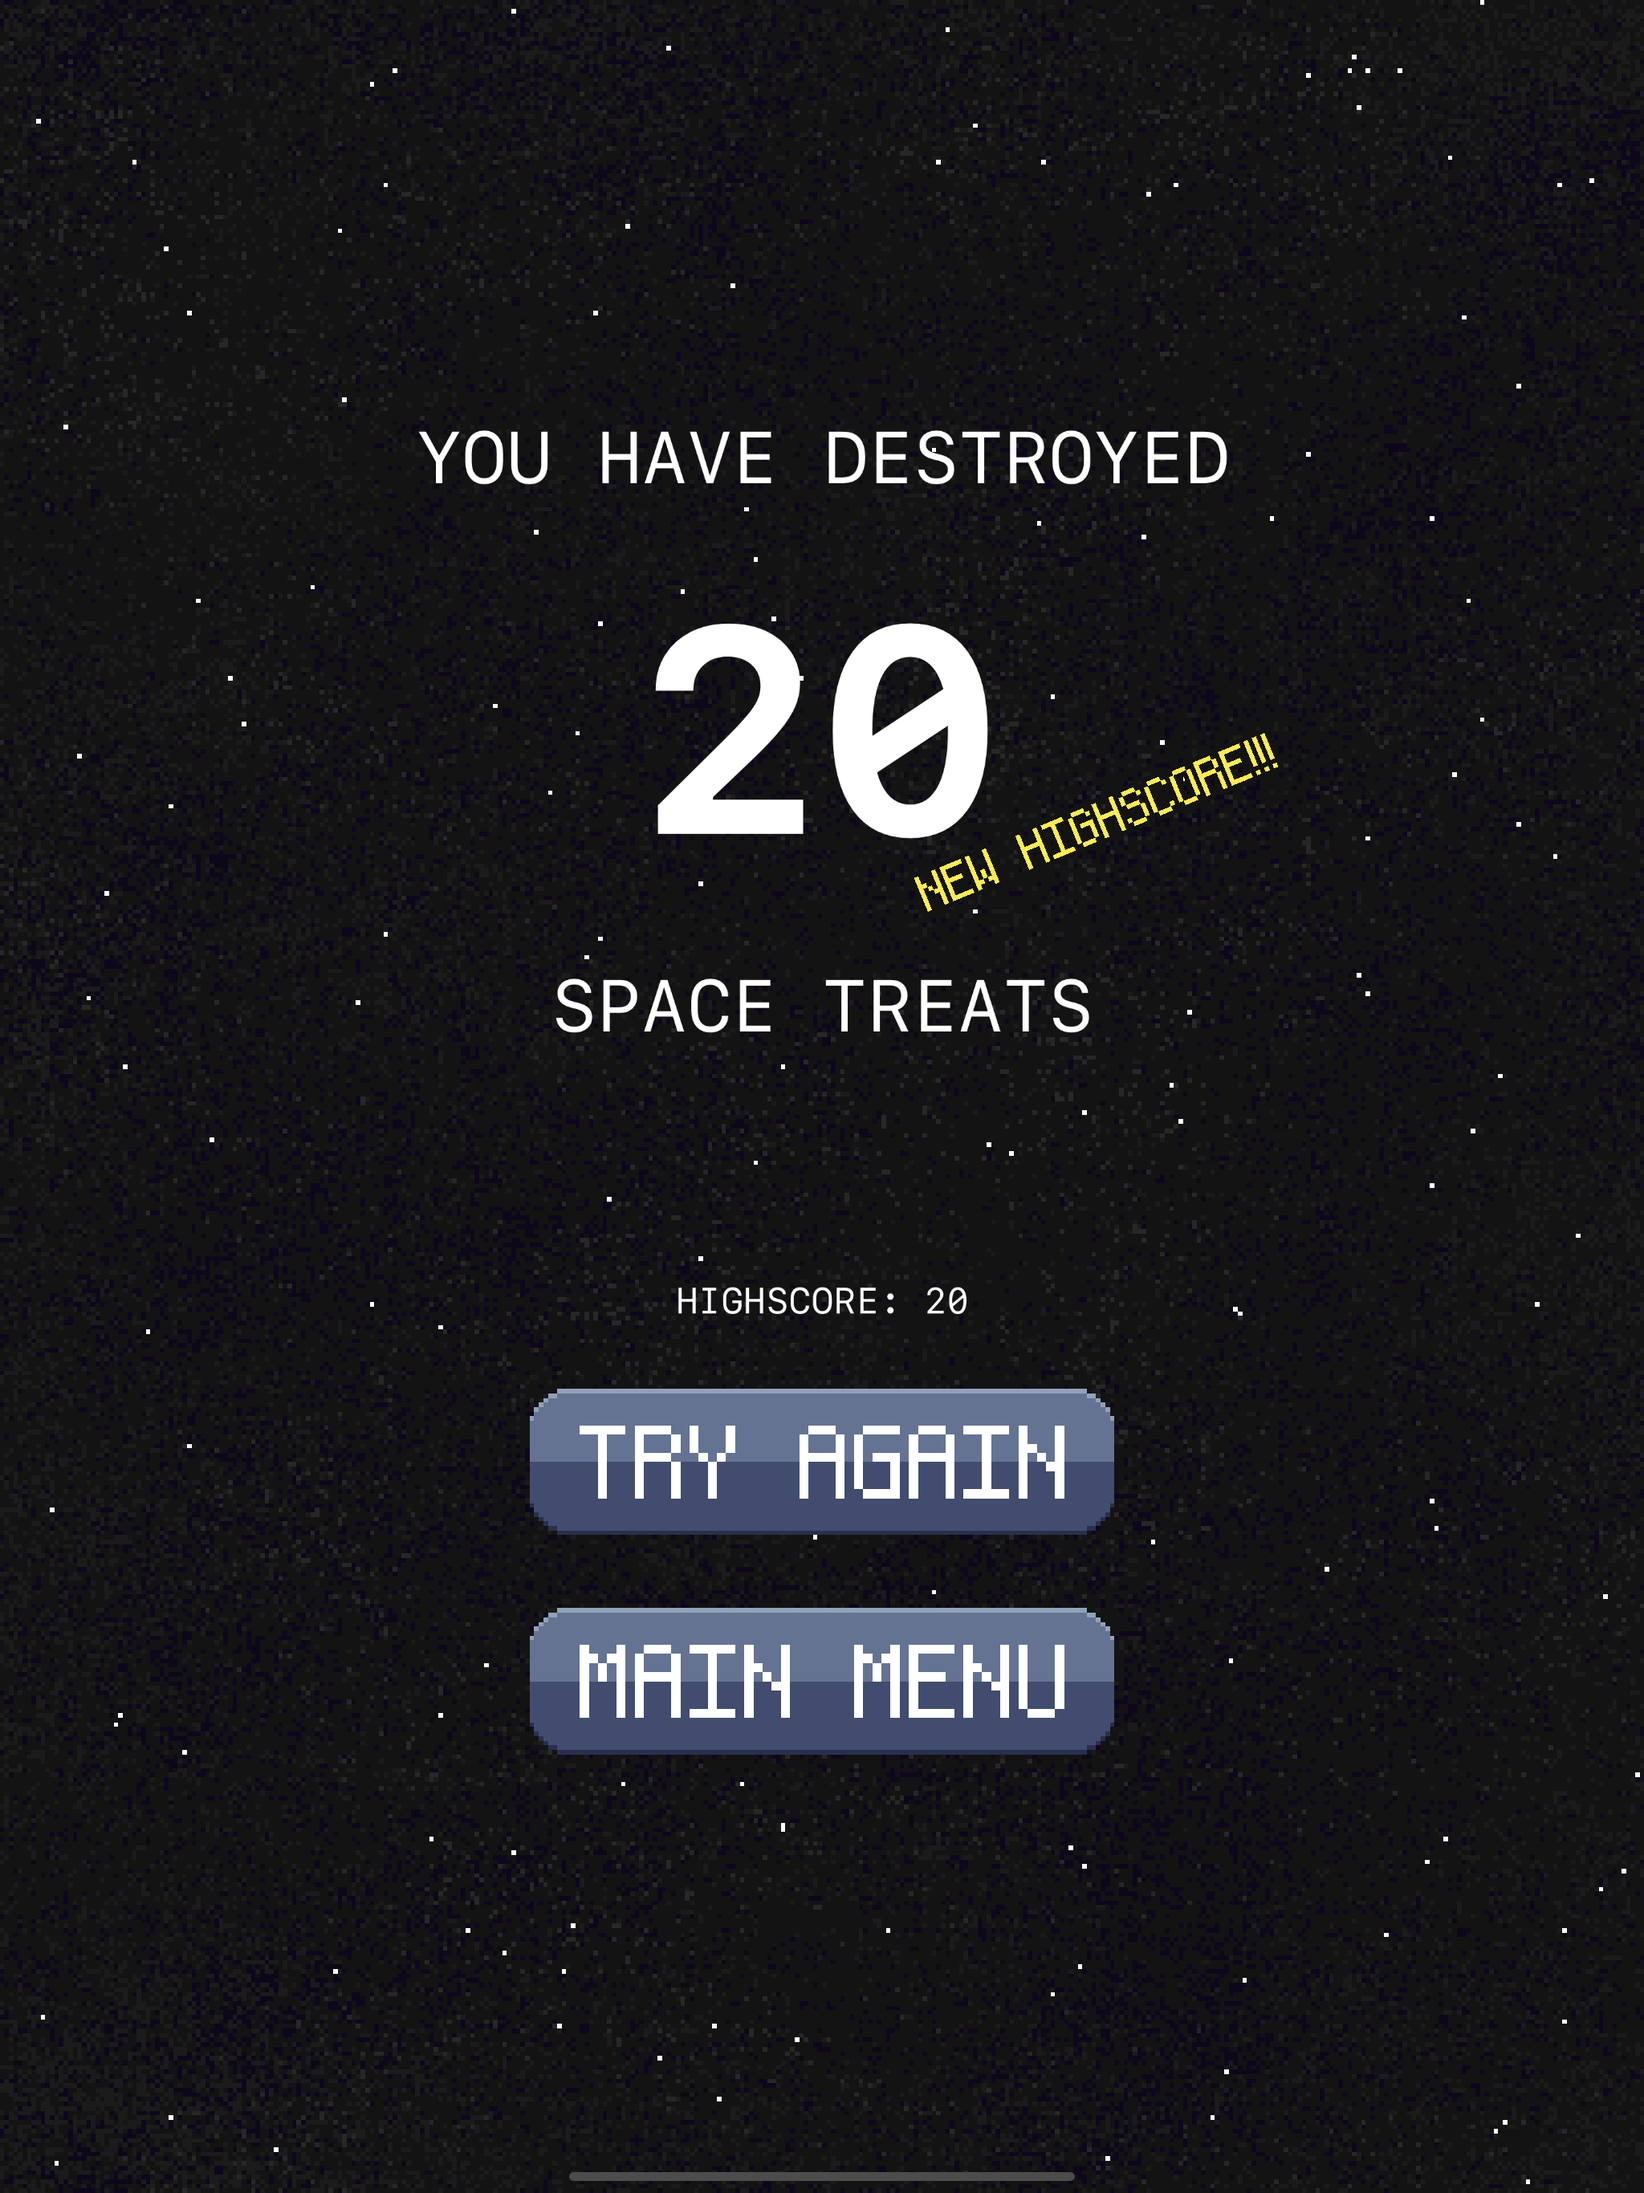
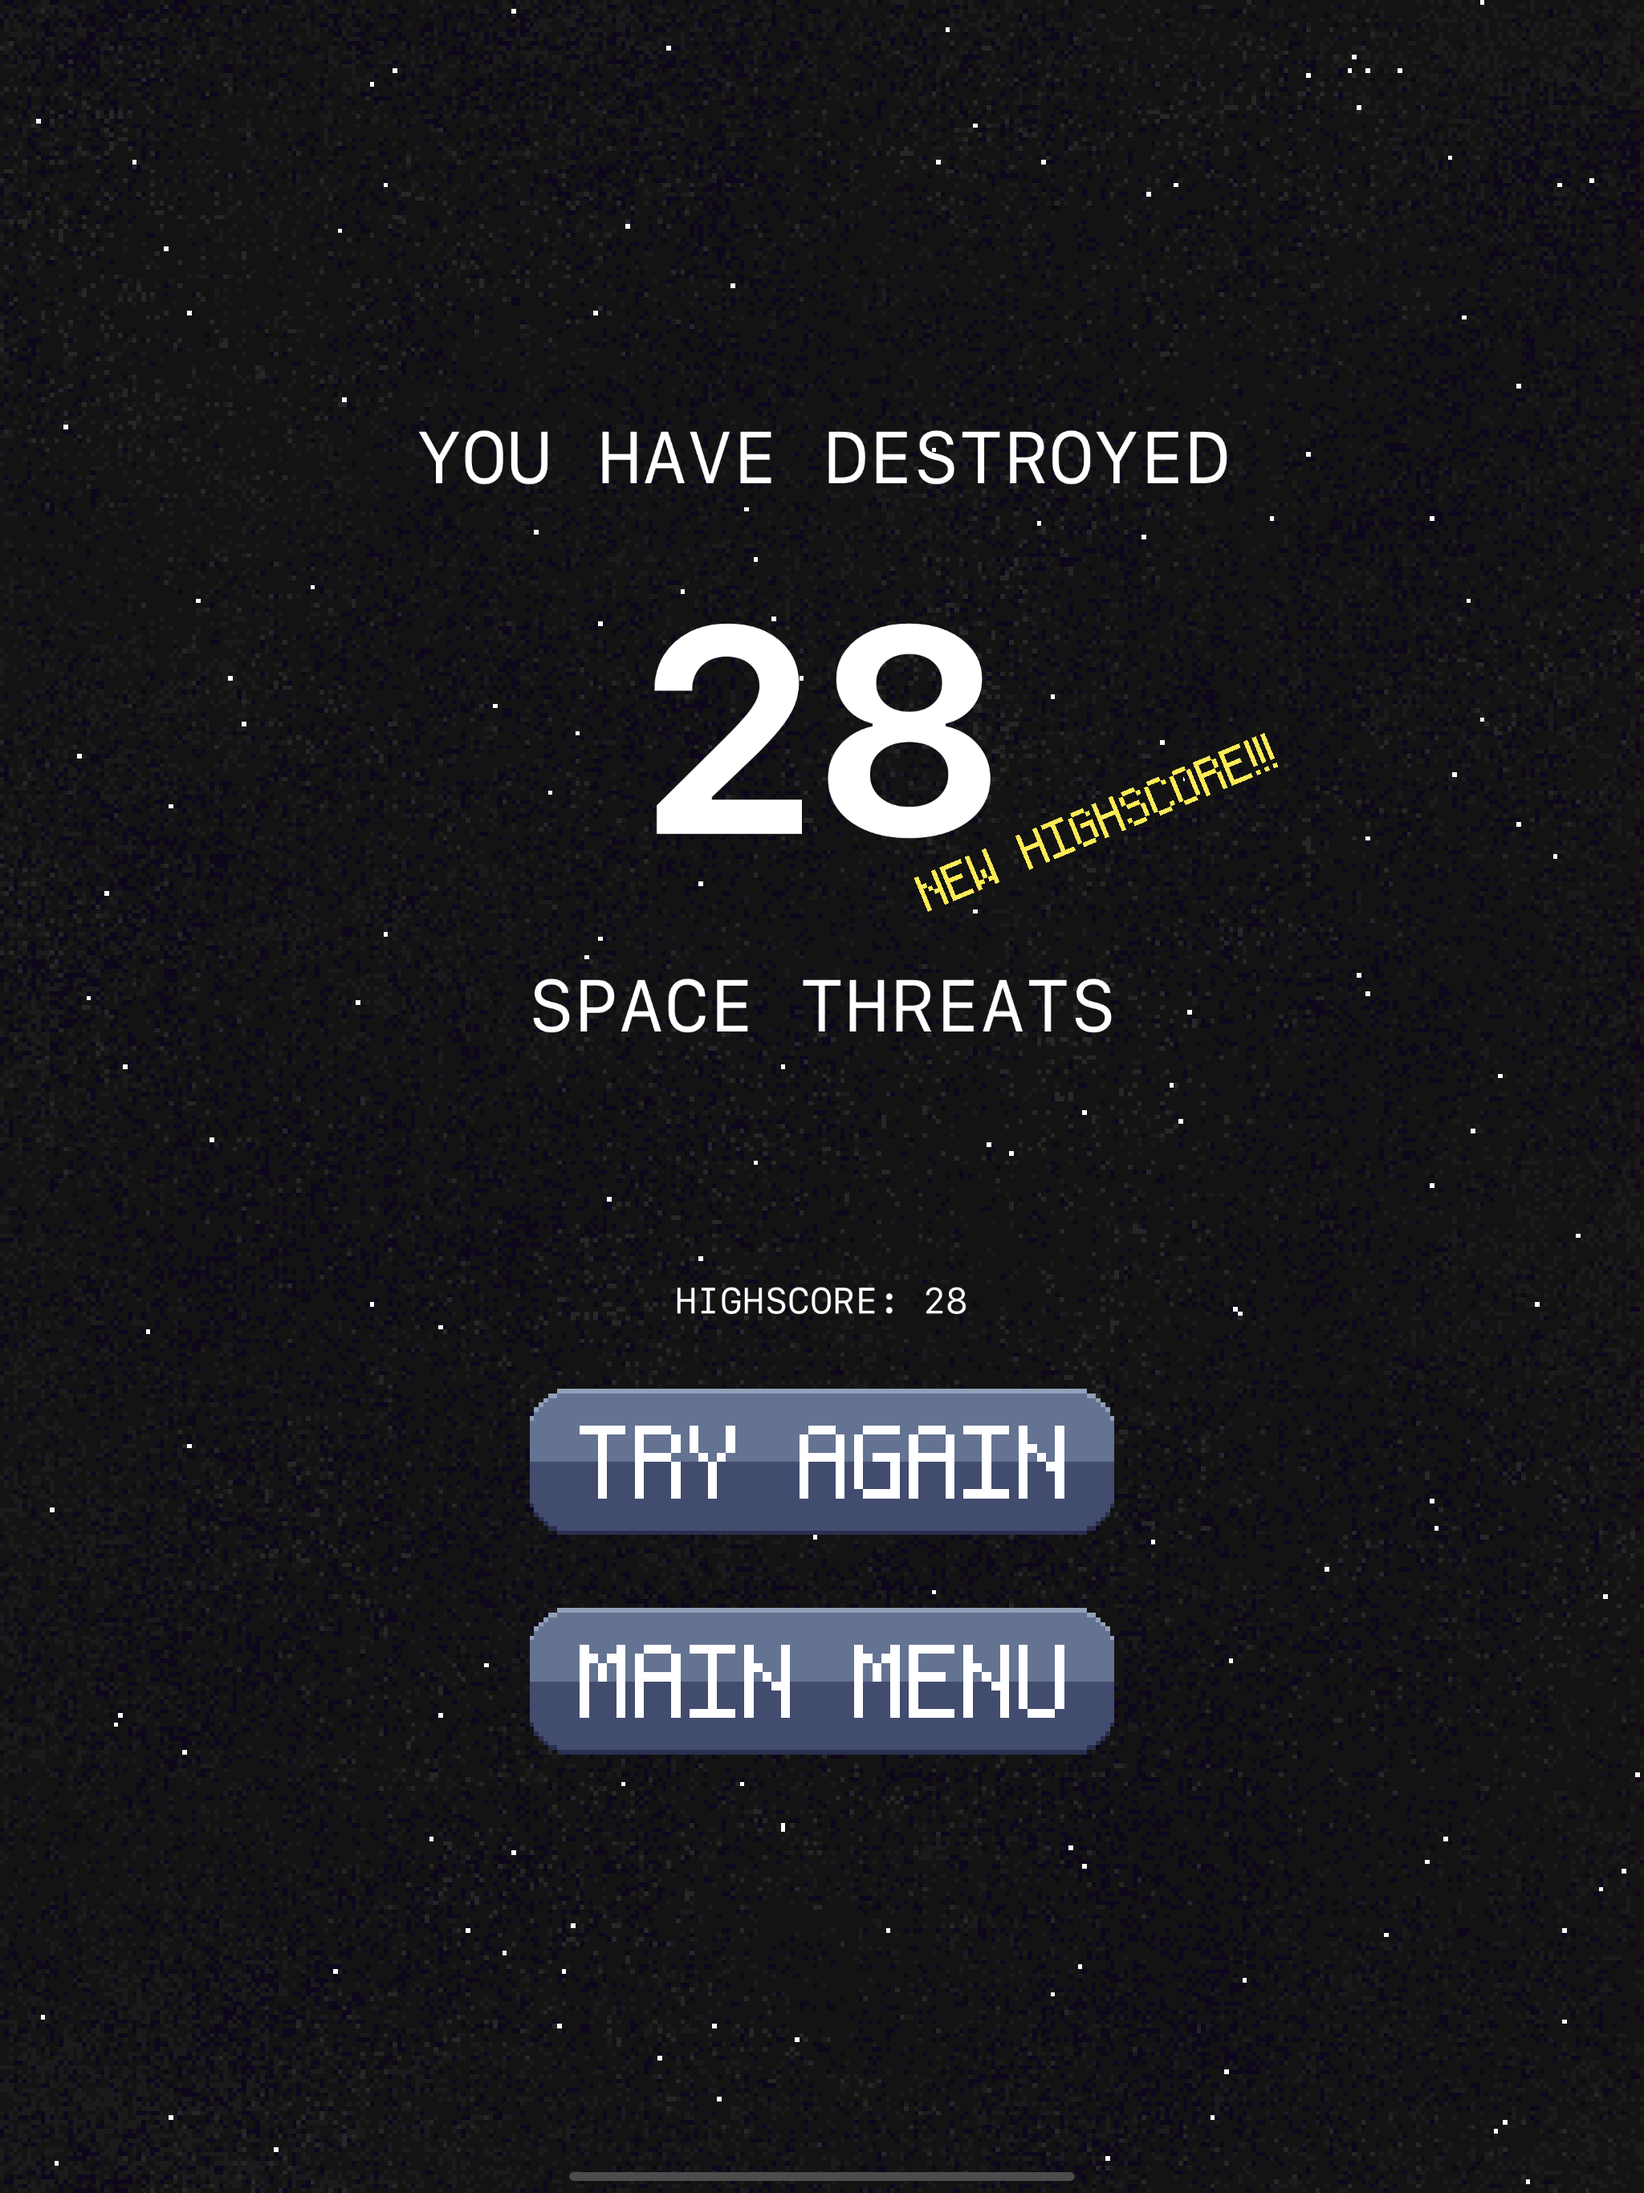
Update label in GameOverScene

Changed region(s): [[0.5, 0.28, 0.625, 0.3734], [0.5, 0.4356, 0.6875, 0.4667], [0.3125, 0.4356, 0.4688, 0.4667]]

diff --git a/HEADS UP!!!.swiftpm/GameOverScene.swift b/HEADS UP!!!.swiftpm/GameOverScene.swift
@@ -39,7 +39,7 @@ class GameOverScene: SKScene {
     }()
     lazy var gameOverLabel1: SKLabelNode = {
         let label = SKLabelNode(attributedText: NSAttributedString(
-            string: "SPACE TREATS",
+            string: "SPACE THREATS",
             attributes: [
                 .font: UIFont.monospacedSystemFont(ofSize: 64, weight: .regular),
                 .foregroundColor: UIColor.white
